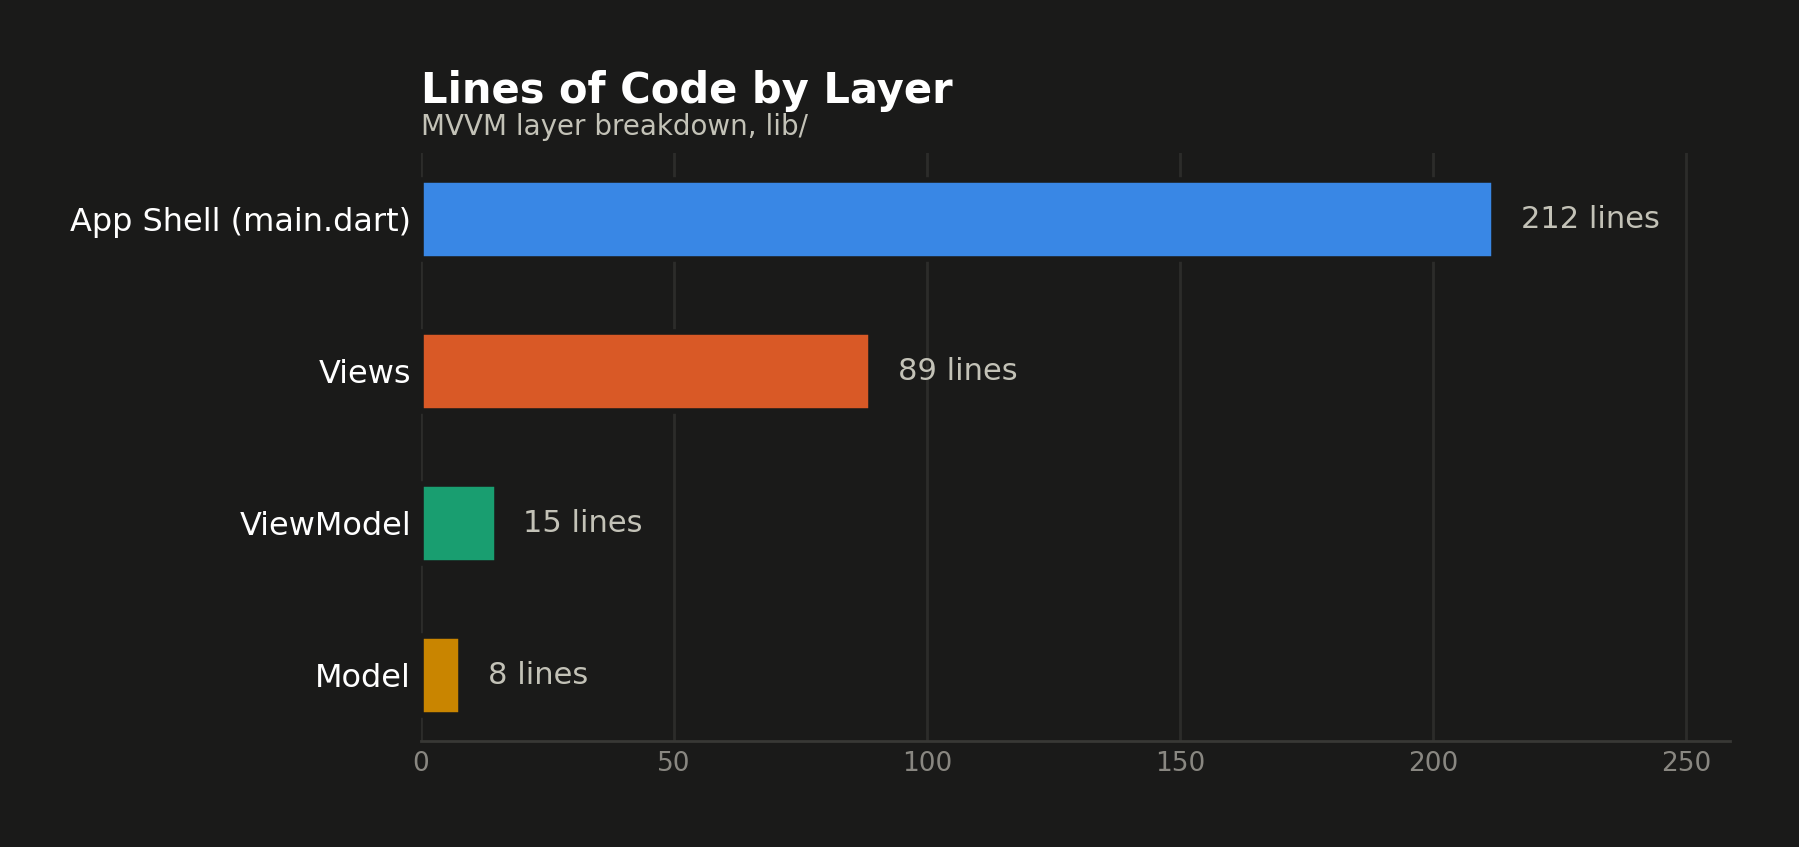
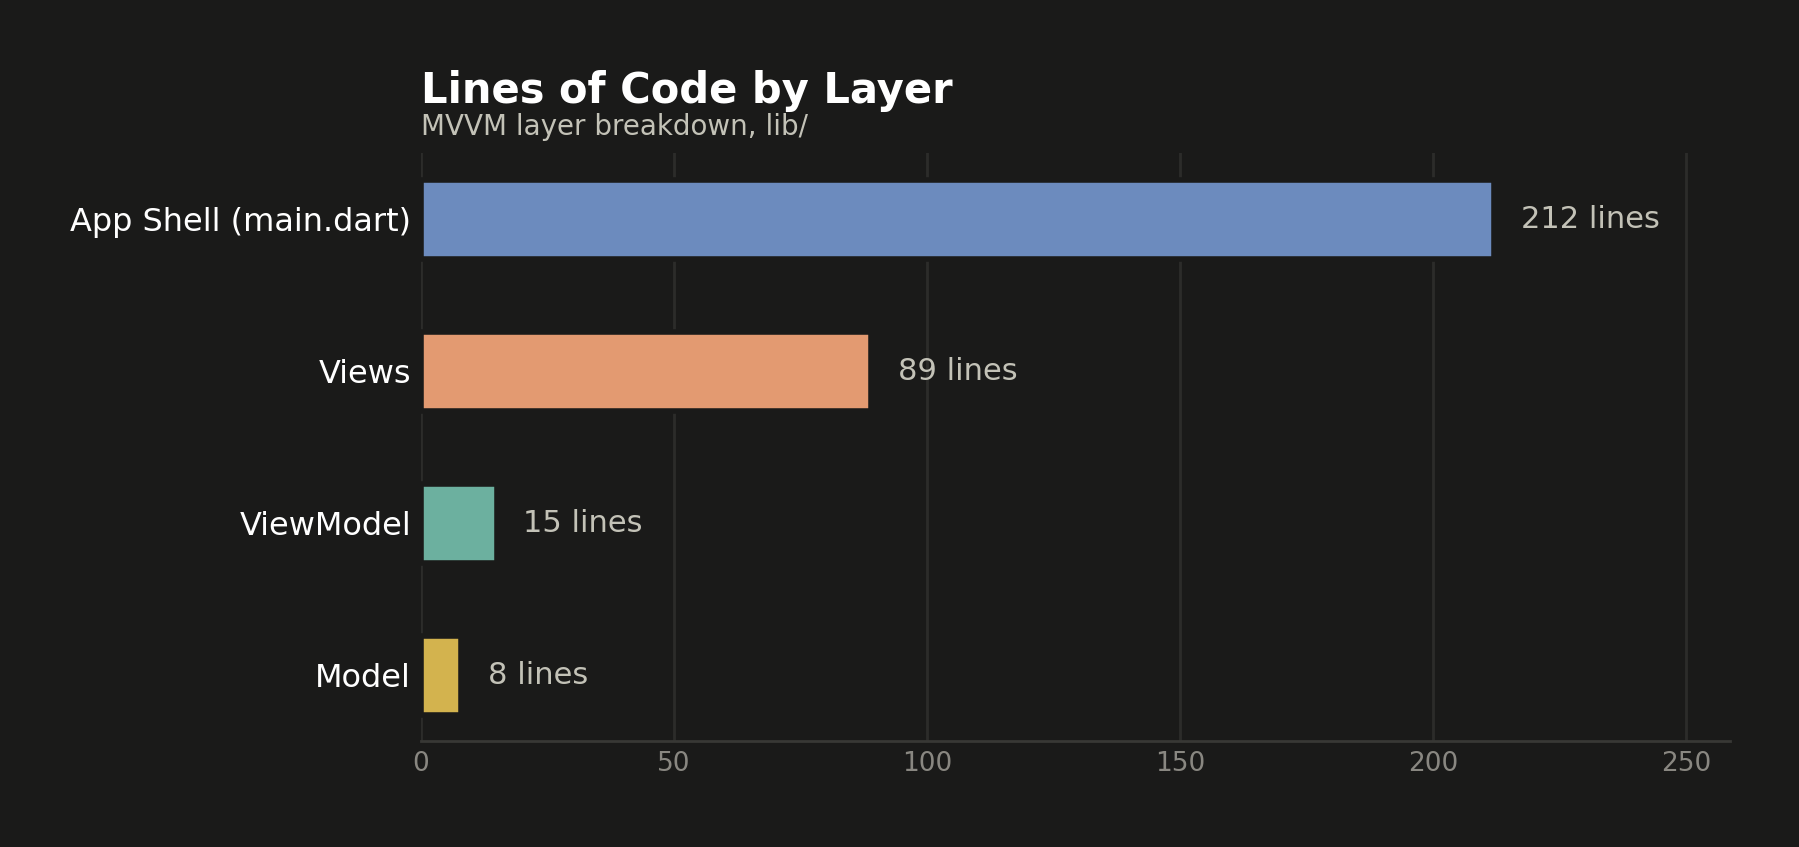
Switch to a more muted, professional color palette

diff --git a/README.md b/README.md
@@ -6,9 +6,9 @@ Add tasks, view them in a live-updating list, and see the whole thing rebuild re
 
 ![Flutter](https://img.shields.io/badge/Flutter-3.6%2B-02569B?style=flat-square&logo=flutter&logoColor=white)
 ![Dart](https://img.shields.io/badge/Dart-3.6-0175C2?style=flat-square&logo=dart&logoColor=white)
-![State Management](https://img.shields.io/badge/State%20Management-Provider-2a78d6?style=flat-square)
-![Architecture](https://img.shields.io/badge/Architecture-MVVM-1baf7a?style=flat-square)
-![License](https://img.shields.io/badge/License-MIT-eda100?style=flat-square)
+![State Management](https://img.shields.io/badge/State%20Management-Provider-4C72B0?style=flat-square)
+![Architecture](https://img.shields.io/badge/Architecture-MVVM-4C9F8A?style=flat-square)
+![License](https://img.shields.io/badge/License-MIT-C9A227?style=flat-square)
 
 ---
 
@@ -54,9 +54,9 @@ flowchart LR
     TLS -- "reads tasks" --> TVM
     TLS -- "navigates to" --> ATS
 
-    classDef view fill:#2a78d6,stroke:#184f95,stroke-width:2px,color:#ffffff
-    classDef viewmodel fill:#eda100,stroke:#8a6200,stroke-width:2px,color:#ffffff
-    classDef model fill:#1baf7a,stroke:#0f7a52,stroke-width:2px,color:#ffffff
+    classDef view fill:#4C72B0,stroke:#2E4670,stroke-width:2px,color:#ffffff
+    classDef viewmodel fill:#C9A227,stroke:#7A6418,stroke-width:2px,color:#ffffff
+    classDef model fill:#4C9F8A,stroke:#2F6455,stroke-width:2px,color:#ffffff
 
     class TLS,ATS view
     class TVM viewmodel
